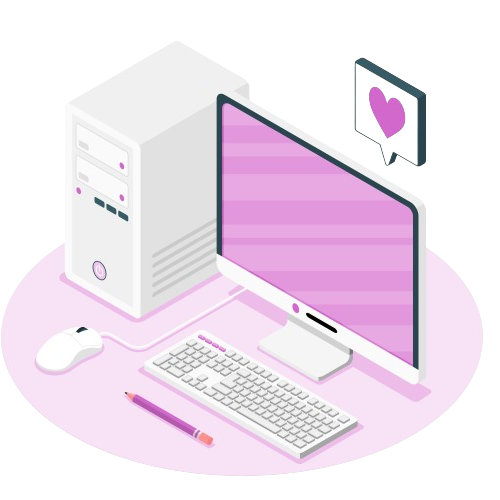
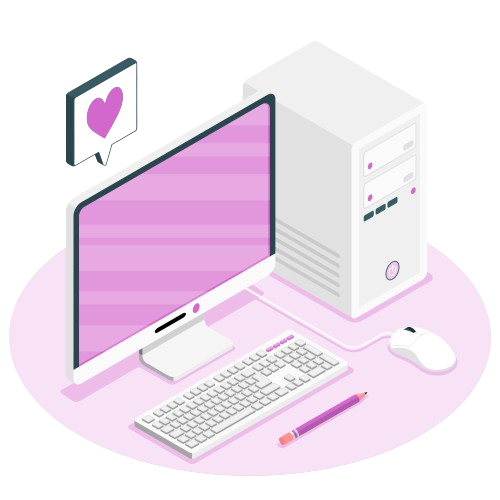
ajeitei novamente a imagem

diff --git a/README.md b/README.md
@@ -4,7 +4,9 @@
 
 </div>
 
-<img src="/image/7832580-removebg-preview.png" alt="image-computer" min-width="400px" max-width="400px" width="400px" align="right">
+<br>
+
+<img src="/image/7832580-removebg-preview.png" alt="image-computer" min-width="400px" max-width="400px" width="400px" align="left">
 
 > ## 🎎 Sobre mim 🎎
 > 👩💻 Sou formada em Análise e Desenvolvimento de Sistemas e em FullStack
